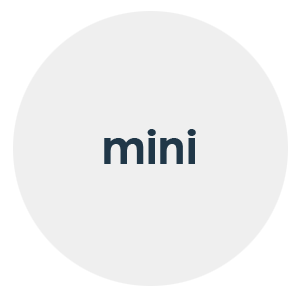
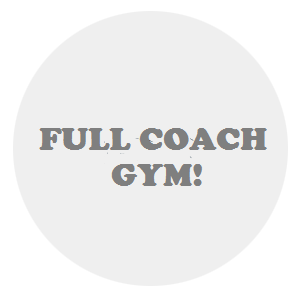
modificacion de menu

Changed region(s): [[0.12, 0.42, 0.9, 0.63]]

diff --git a/template/css/bootstrap.css b/template/css/bootstrap.css
@@ -168,14 +168,14 @@ body {
 	font-size: 14px;
 	line-height: 20px;
 	color: #fff;
-	background-color: #203748;
+	background-color:#4f3d00;
 }
 a {
-	color: #0088cc;
+	color: #000;
 	text-decoration: none;
 }
 a:hover, a:focus {
-	color: #005580;
+	color: #000;
 	text-decoration: underline;
 }
 .img-rounded {
@@ -528,10 +528,10 @@ a.text-warning:hover, a.text-warning:focus {
 	color: #a47e3c;
 }
 .text-error {
-	color: #b94a48;
+	color: #65005a;
 }
 a.text-error:hover, a.text-error:focus {
-	color: #953b39;
+	color: #65005a;
 }
 .text-info {
 	color: #3a87ad;
@@ -758,10 +758,10 @@ a.label:hover, a.label:focus, a.badge:hover, a.badge:focus {
 	cursor: pointer;
 }
 .label-important, .badge-important {
-	background-color: #b94a48;
+	background-color: #65005a;
 }
 .label-important[href], .badge-important[href] {
-	background-color: #953b39;
+	background-color: #65005a;
 }
 .label-warning, .badge-warning {
 	background-color: #f89406;
@@ -1244,27 +1244,27 @@ input[type="radio"][disabled], input[type="checkbox"][disabled], input[type="rad
 	border-color: #c09853;
 }
 .control-group.error .control-label, .control-group.error .help-block, .control-group.error .help-inline {
-	color: #b94a48;
+	color: #65005a;
 }
 .control-group.error .checkbox, .control-group.error .radio, .control-group.error input, .control-group.error select, .control-group.error textarea {
-	color: #b94a48;
+	color: #65005a;
 }
 .control-group.error input, .control-group.error select, .control-group.error textarea {
-	border-color: #b94a48;
+	border-color: #65005a;
 	-webkit-box-shadow: inset 0 1px 1px rgba(0, 0, 0, 0.075);
 	-moz-box-shadow: inset 0 1px 1px rgba(0, 0, 0, 0.075);
 	box-shadow: inset 0 1px 1px rgba(0, 0, 0, 0.075);
 }
 .control-group.error input:focus, .control-group.error select:focus, .control-group.error textarea:focus {
-	border-color: #953b39;
+	border-color: #65005a;
 	-webkit-box-shadow: inset 0 1px 1px rgba(0, 0, 0, 0.075), 0 0 6px #d59392;
 	-moz-box-shadow: inset 0 1px 1px rgba(0, 0, 0, 0.075), 0 0 6px #d59392;
 	box-shadow: inset 0 1px 1px rgba(0, 0, 0, 0.075), 0 0 6px #d59392;
 }
 .control-group.error .input-prepend .add-on, .control-group.error .input-append .add-on {
-	color: #b94a48;
+	color: #65005a;
 	background-color: #f2dede;
-	border-color: #b94a48;
+	border-color: #65005a;
 }
 .control-group.success .control-label, .control-group.success .help-block, .control-group.success .help-inline {
 	color: #468847;
@@ -1317,7 +1317,7 @@ input:focus:invalid, textarea:focus:invalid, select:focus:invalid {
  border-color: #ee5f5b;
 }
 input:focus:invalid:focus, textarea:focus:invalid:focus, select:focus:invalid:focus {
- border-color: #e9322d;
+ border-color: #65005a;
  -webkit-box-shadow: 0 0 6px #f8b9b7;
  -moz-box-shadow: 0 0 6px #f8b9b7;
  box-shadow: 0 0 6px #f8b9b7;
@@ -1726,28 +1726,28 @@ input[type="submit"].btn-block, input[type="reset"].btn-block, input[type="butto
 .btn-danger {
 	color: #ffffff;
 	text-shadow: 0 -1px 0 rgba(0, 0, 0, 0.25);
-	background-color: #da4f49;
-	background-image: -moz-linear-gradient(top, #ee5f5b, #bd362f);
-	background-image: -webkit-gradient(linear, 0 0, 0 100%, from(#ee5f5b), to(#bd362f));
-	background-image: -webkit-linear-gradient(top, #ee5f5b, #bd362f);
-	background-image: -o-linear-gradient(top, #ee5f5b, #bd362f);
-	background-image: linear-gradient(to bottom, #ee5f5b, #bd362f);
+	background-color: #65005a;
+	background-image: -moz-linear-gradient(top, #ee5f5b, #65005a);
+	background-image: -webkit-gradient(linear, 0 0, 0 100%, from(#ee5f5b), to(#65005a));
+	background-image: -webkit-linear-gradient(top, #ee5f5b, #65005a);
+	background-image: -o-linear-gradient(top, #ee5f5b, #65005a);
+	background-image: linear-gradient(to bottom, #ee5f5b, #65005a);
 	background-repeat: repeat-x;
  filter: progid:DXImageTransform.Microsoft.gradient(startColorstr='#ffee5f5b', endColorstr='#ffbd362f', GradientType=0);
-	border-color: #bd362f #bd362f #802420;
+	border-color: #65005a #65005a #65005a;
 	border-color: rgba(0, 0, 0, 0.1) rgba(0, 0, 0, 0.1) rgba(0, 0, 0, 0.25);
- *background-color: #bd362f;
+ *background-color: #65005a;
   /* Darken IE7 buttons by default so they stand out more given they won't have borders */
 
   filter: progid:DXImageTransform.Microsoft.gradient(enabled = false);
 }
 .btn-danger:hover, .btn-danger:focus, .btn-danger:active, .btn-danger.active, .btn-danger.disabled, .btn-danger[disabled] {
 	color: #ffffff;
-	background-color: #bd362f;
- *background-color: #a9302a;
+	background-color: #65005a;
+ *background-color: #65005a;
 }
 .btn-danger:active, .btn-danger.active {
-	background-color: #942a25 \9;
+	background-color: #65005a \9;
 }
 .btn-success {
 	color: #ffffff;
@@ -2455,7 +2455,7 @@ button.btn.btn-mini, input[type="submit"].btn.btn-mini {
 	background-color: #f89406;
 }
 .btn-group.open .btn-danger.dropdown-toggle {
-	background-color: #bd362f;
+	background-color: #65005a;
 }
 .btn-group.open .btn-success.dropdown-toggle {
 	background-color: #51a351;
@@ -2838,7 +2838,7 @@ button.btn.btn-mini, input[type="submit"].btn.btn-mini {
 	min-height: 40px;
 	padding-left: 20px;
 	padding-right: 20px;
-	background-color: #f04949;
+	background-color:  #897300;
  *zoom: 1;
 }
 .navbar-inner:before, .navbar-inner:after {

diff --git a/template/index.html b/template/index.html
@@ -36,10 +36,10 @@
       <div class="navbar-inner">
         <div class="container"> <a class="btn btn-navbar" data-toggle="collapse" data-target=".nav-collapse"> <span class="icon-bar"></span> <span class="icon-bar"></span> <span class="icon-bar"></span> </a> <a class="brand" href="index.html"><img src="img/user.jpg"/></a>
           <ul class="nav nav-collapse pull-right">
-            <li><a href="index.html" class="active"><i class="icon-user"></i> Profile</a></li>
-            <li><a href="skills.html"><i class="icon-trophy"></i> Skills</a></li>
-            <li><a href="work.html"><i class="icon-picture"></i> Work</a></li>
-            <li><a href="resume.html"><i class="icon-doc-text"></i> Resume</a></li>
+            <li><a href="index.html" class="active"><i class="icon-user"></i> Perfil</a></li>
+            <li><a href="skills.html"><i class="icon-trophy"></i> Descripcion</a></li>
+            <li><a href="work.html"><i class="icon-picture"></i> Imagenes</a></li>
+            <li><a href="resume.html"><i class="icon-doc-text"></i> Contactos</a></li>
           </ul>
           <!-- Everything you want hidden at 940px or less, place within here -->
           <div class="nav-collapse collapse">
@@ -52,10 +52,10 @@
     <div class="container profile">
       <div class="span3"> <img src="img/mini.png"> </div>
       <div class="span5">
-        <h1>Juan Dela Cruz</h1>
-        <h3>Web &amp; Graphics Designer</h3>
-        <p> Hello I am Juan Dela Cruz Web and Graphics Designer from Philipines. If yopu have something to be done just call my name and I will be there. :-) </p>
-        <a href="#" class="hire-me"><i class="icon-paper-plane"></i> Hire Me </a> </div>
+        <h1>The Best</h1>
+        <h3>Cada ves mejorando</h3>
+        <p> Cuando un hombre se sienta con una chica bonita durante una hora, parece que fuese un minuto. Pero déjalo que se siente en una estufa caliente durante un minuto y le parecerá más de una hora. </p>
+        <a href="https://www.youtube.com/" class="hire-me"><i class="icon-paper-plane"></i> Click aqui! </a> </div>
     </div>
     <!--END: Profile container-->
     <!-- Social Icons -->
@@ -73,8 +73,8 @@
     <!-- Footer -->
     <div class="footer">
       <div class="container">
-        <p class="pull-left"><a href="http://dzyngiri.com">www.dzyngiri.com</a></p>
-        <p class="pull-right"><a href="#myModal" role="button" data-toggle="modal"> <i class="icon-mail"></i> CONTACT</a></p>
+        <p class="pull-left"><a href="http://www.facebook.com">WWW.COACHGYM.COM</a></p>
+        <p class="pull-right"><a href="#myModal" role="button" data-toggle="modal"> <i class="icon-mail"></i> CONTACTANOS</a></p>
       </div>
     </div>
     <!-- Contact form in Modal -->

diff --git a/template/css/style.css b/template/css/style.css
@@ -9,7 +9,7 @@ a.brand img {
 }
 .profile h2, .skills h2, .work h2, .resume h2 {
 	font-weight:normal;
-	color: #39D084;
+	color: #000;
 }
 /***** Profile *****/
 	.profile h1 {
@@ -98,7 +98,7 @@ ul.social-icons li a:hover {
 	background:#ee742b;
 }
 .skills .html {
-	background:#f04949;
+	background: #897300;
 }
 .skills .css {
 	background:#39d084;
@@ -153,7 +153,7 @@ ul.social-icons li a:hover {
 }
 .html2 {
 	width:75%;
-	background:#f04949;
+	background: #897300;
 	-moz-animation:jquery 2s ease-out;
 	-webkit-animation:jquery 2s ease-out;
 }
@@ -239,7 +239,7 @@ ul.work-images li:first-child {
 }
 ul.work-images li div {
 	background:url(../img/eye.png) 50% 50% no-repeat;
-	background-color: #f04949;
+	background-color:  #897300;
 	-webkit-transition: all 0.2s linear;
 	-moz-transition: all 0.2s linear;
 	-o-transition: all 0.2s linear;
